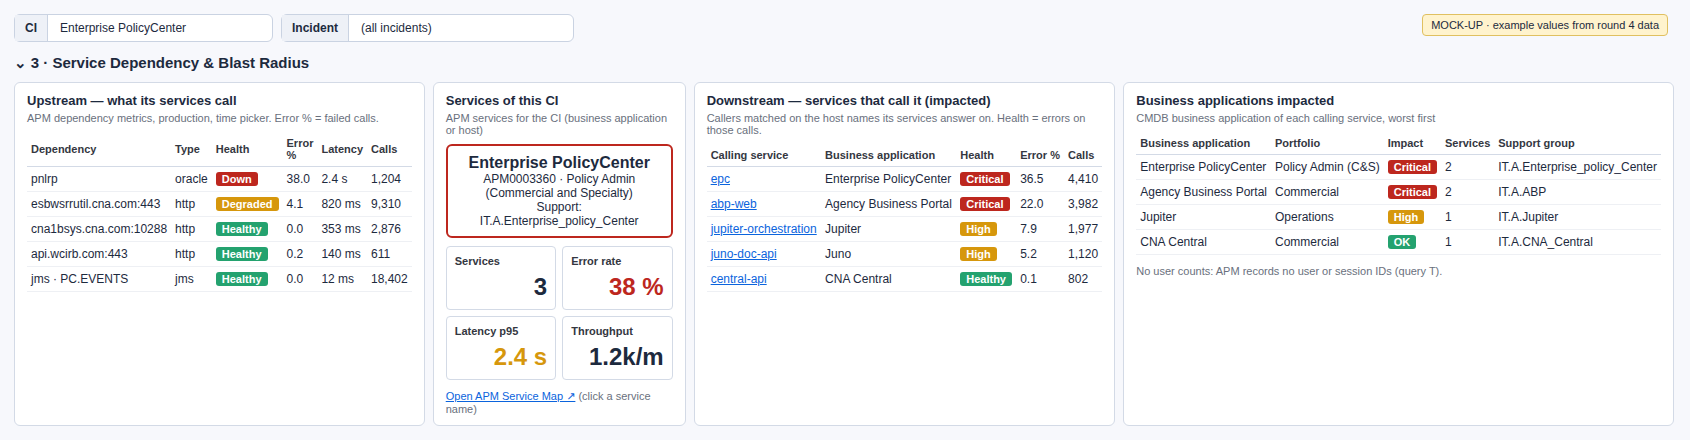
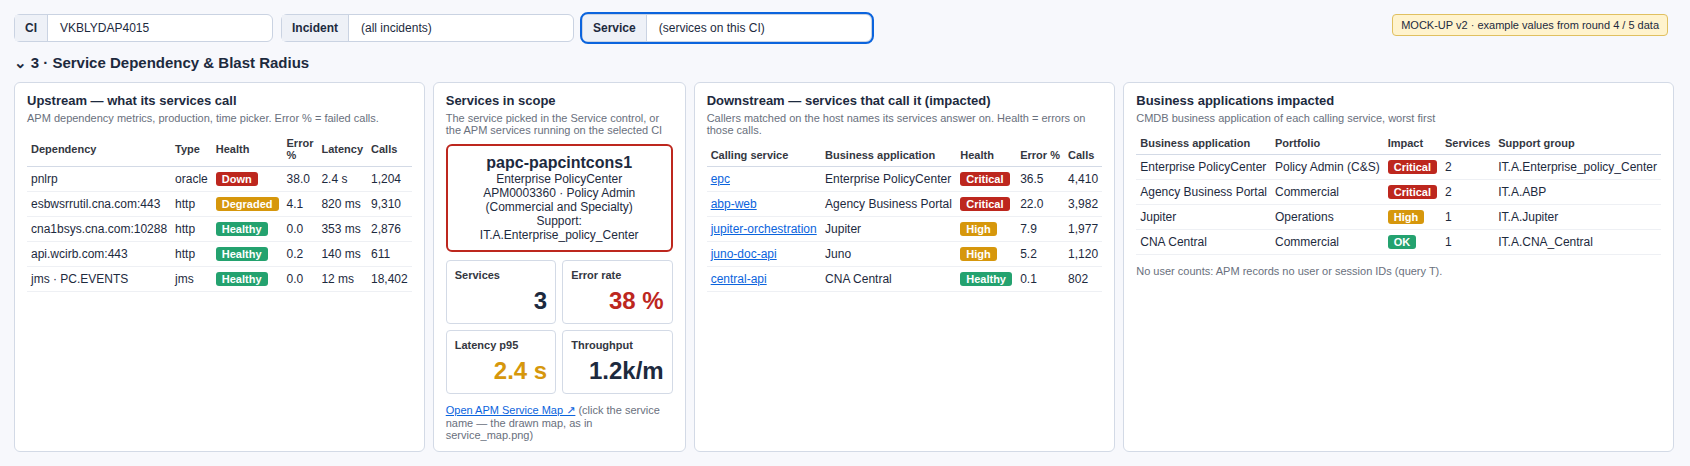
Record Round 5 results; blast-radius mock-up v2 with a Service control
Claude-Session: https://claude.ai/code/session_01UQEseLGdhSbfUn9TQsQUqG

diff --git a/MIM-V3-DATA-CHECK-QUERIES.md b/MIM-V3-DATA-CHECK-QUERIES.md
@@ -120,6 +120,19 @@ FROM logs-syslog-classic-default | LIMIT 3
 | S | `FROM cmdb-cis* \| LIMIT 3` | 1 year | CI records: name, class, install / operational status, location; no criticality or user-count field in the sample |
 | T | `FROM traces-apm* \| … with_user = COUNT(TO_STRING(user.id)) …` | 15 min | Error *Unknown column [user.id]*: APM records no user IDs, so "users impacted" cannot be shown |
 
+## Round 5 — Blast Radius design (results in `round5.txt`, `service_map.png`)
+
+Run in Dev Tools Console, which applies **no time filter**, so V, W and Z cover the whole retention.
+
+| # | Query | Answered |
+|---|---|---|
+| V | `FROM metrics-apm.service_transaction.1m-* \| STATS services = COUNT_DISTINCT(service.name) BY env = TO_STRING(service.environment)` | 426 services in `prd1`; production is also spelled `prd2`, `prd`, `Prod`, `PRD`. Non-production: `cut*`, `ete*`, `stg*`, `drt*`, `UAT`, `QA`, `DEV`; 42 services have no environment |
+| W | `FROM metrics-apm.service_destination.1m-* \| STATS docs = COUNT(*), calls = SUM(span.destination.service.response_time.count) BY outcome = TO_STRING(event.outcome)` | Failed calls are recorded: 140M failed vs 17.3B successful (0.8 %), so a per-dependency error % works |
+| X | incidents ∪ `metrics-apm.service_transaction.1m-*`, CIs present in both | 562 P1 / P2 CIs (7,234 incidents) in 6 months; **none** is an APM business application name (the single match is the blank CI). Deriving the service from the incident CI's name does not work |
+| Y | `FROM servicenow-incidents-* \| … STATS incidents, cis BY ci_class` (6 months) | P1 / P2 are raised mostly against servers: Linux 2,800, AIX 2,719, Windows 766; network 423; application services ~200 (Mapped, Application, Tag-Based, Calculated); 415 without a CI |
+| Z | `FROM metrics-apm.service_destination.1m-* \| STATS docs, services, resources` | 350M records, 515 calling services, 1,766 dependencies over the whole retention; a 15-minute window is a small fraction |
+| U | Manual: APM → Service Map | The map draws (licence includes it) and resolves service-to-service calls, e.g. cnac-service → CNACentral → elm-standardize-services → elm-hazard-services |
+
 ---
 
 ## Earlier checks
